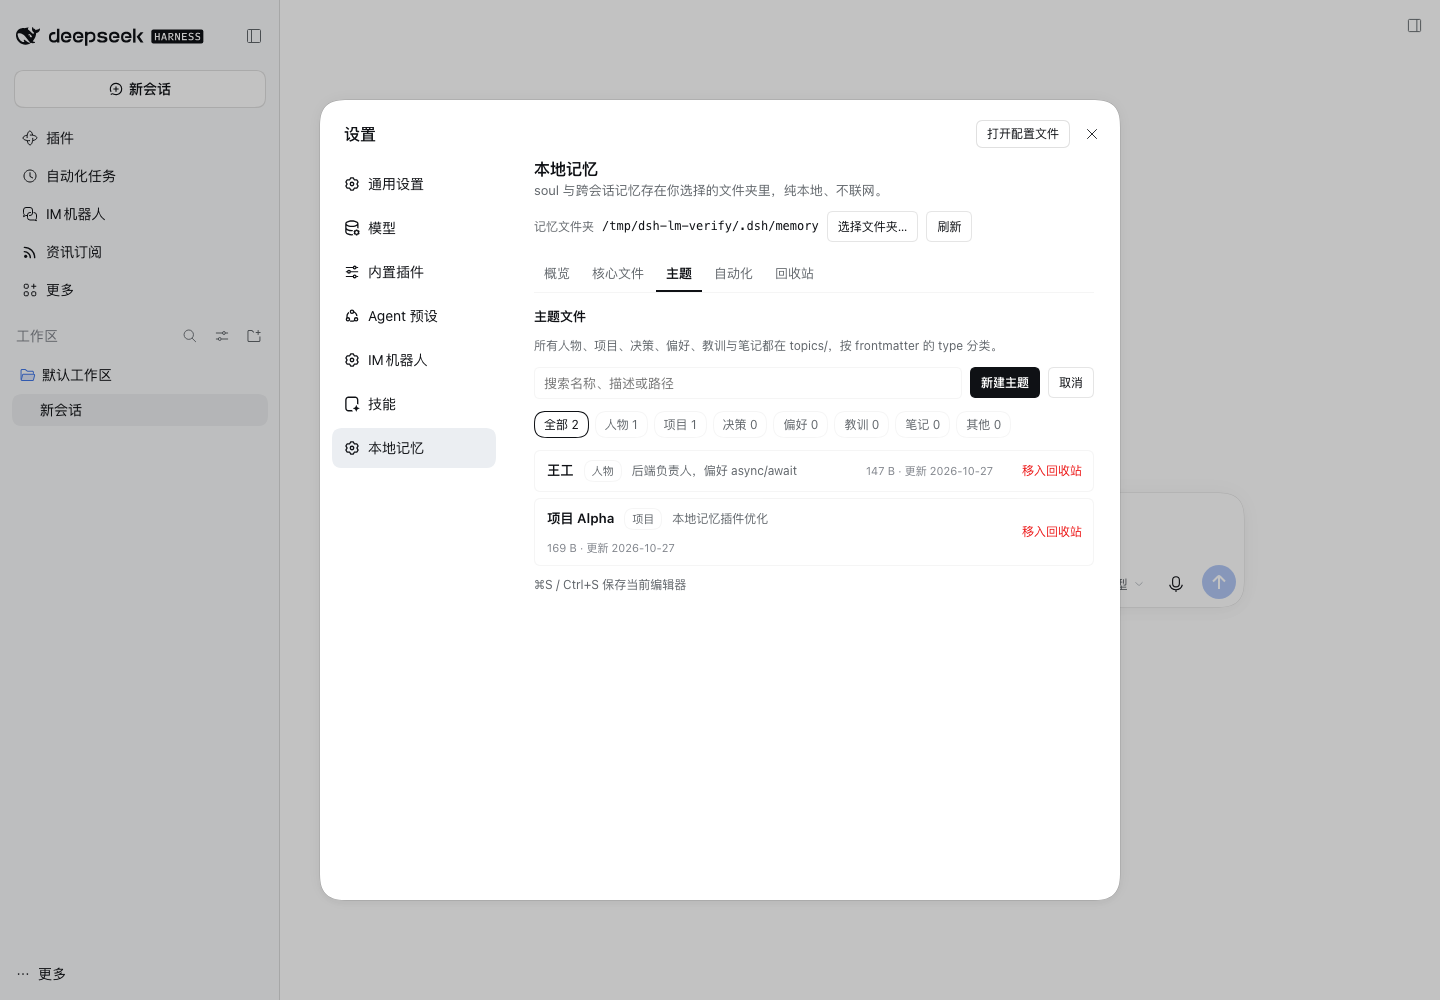
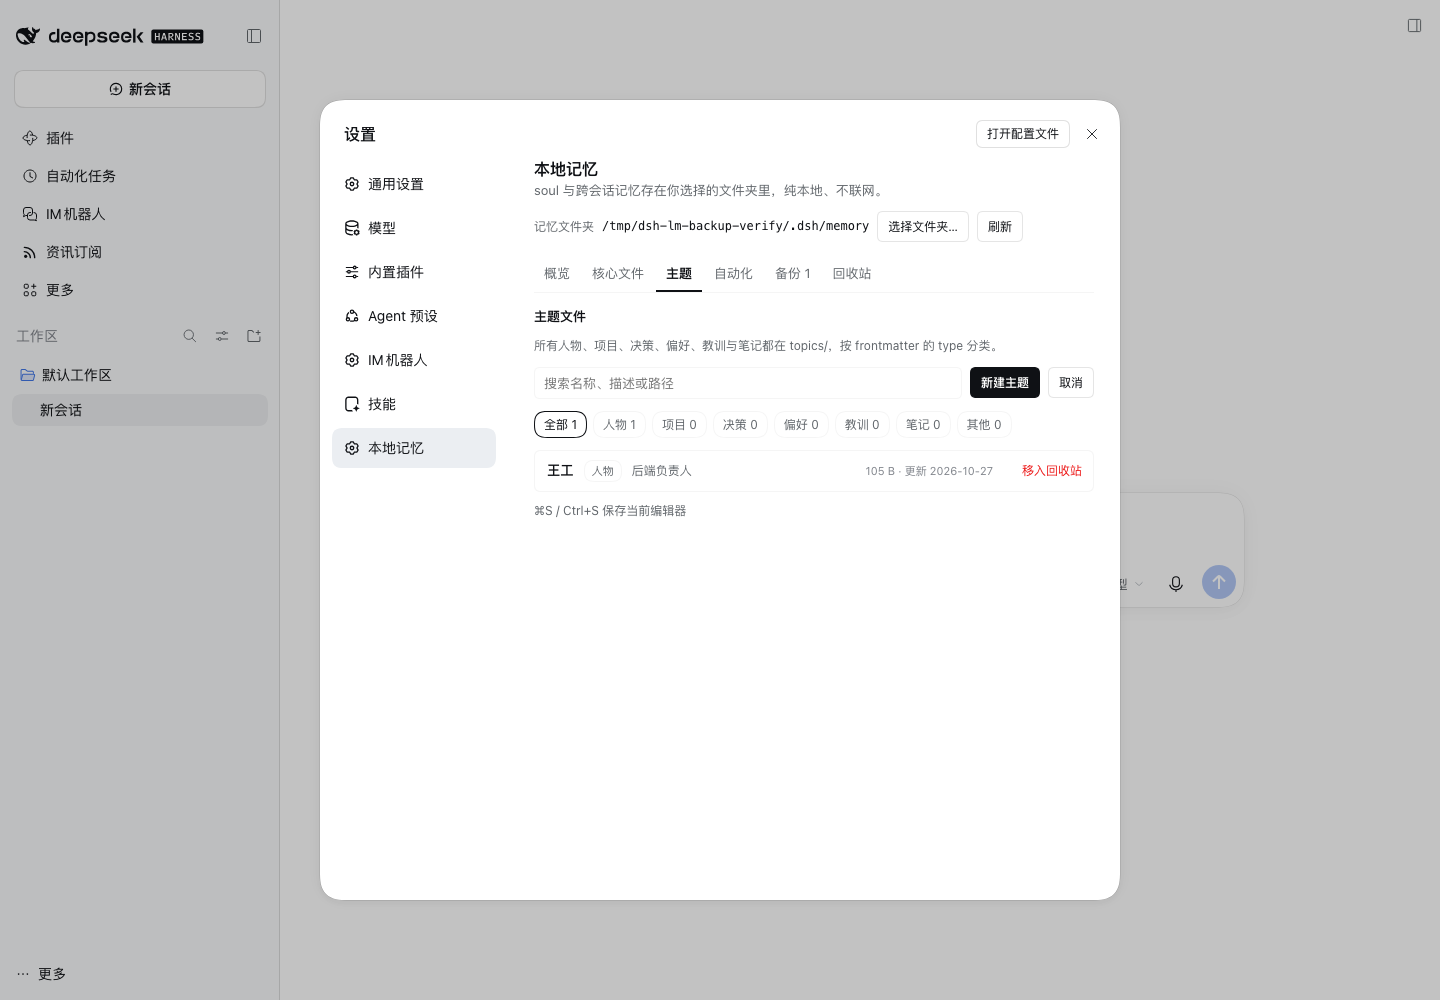
feat: 0.3.1 backup management tab with delete and retention

diff --git a/client.js b/client.js
@@ -31,6 +31,7 @@ window.__ModuleLoader__.load({
         tabCore: '核心文件',
         tabTopics: '主题',
         tabAutomation: '自动化',
+        tabBackup: '备份',
         tabTrash: '回收站',
         never: '还没有记录',
         notScheduled: '未启用',
@@ -148,6 +149,12 @@ window.__ModuleLoader__.load({
         backupEmpty: '还没有备份。',
         backupRestore: '恢复此备份',
         backupRestoreConfirm: '用备份 {id} 覆盖当前 soul / MEMORY / topics？覆盖后无法撤销。',
+        backupDelete: '删除备份',
+        confirmDeleteBackup: '确认删除',
+        backupDeleteConfirm: '永久删除备份 {id}？此操作不可恢复。',
+        backupDeleted: '备份已删除',
+        backupKeep: '保留份数',
+        backupHint: '恢复会覆盖当前 soul / MEMORY / topics；删除备份不可恢复。',
         backupDone: '备份完成',
         backupRestoreDone: '备份已恢复',
         backupFiles: '{n} 个文件',
@@ -183,6 +190,7 @@ window.__ModuleLoader__.load({
         tabCore: 'Core files',
         tabTopics: 'Topics',
         tabAutomation: 'Automation',
+        tabBackup: 'Backups',
         tabTrash: 'Trash',
         never: 'Never',
         notScheduled: 'Disabled',
@@ -300,6 +308,12 @@ window.__ModuleLoader__.load({
         backupEmpty: 'No backups yet.',
         backupRestore: 'Restore this backup',
         backupRestoreConfirm: 'Overwrite current soul / MEMORY / topics with backup {id}? This cannot be undone.',
+        backupDelete: 'Delete backup',
+        confirmDeleteBackup: 'Delete now',
+        backupDeleteConfirm: 'Delete backup {id} permanently? This cannot be undone.',
+        backupDeleted: 'Backup deleted',
+        backupKeep: 'Keep count',
+        backupHint: 'Restoring overwrites current soul / MEMORY / topics; deleting a backup is permanent.',
         backupDone: 'Backup created',
         backupRestoreDone: 'Backup restored',
         backupFiles: '{n} files',
@@ -491,6 +505,11 @@ window.__ModuleLoader__.load({
       const saveSettings = async (patch) => {
         try {
           await post('/settings', patch)
+          if (Object.prototype.hasOwnProperty.call(patch, 'dir')) {
+            setSoulText(null)
+            setMemText(null)
+            setEditor(null)
+          }
           await load()
           notify(t('settingsSaved'))
         } catch (err) {
@@ -604,8 +623,18 @@ window.__ModuleLoader__.load({
           await post('/backup', { action: 'restore', id: item.id })
           setConfirm(null)
           setEditor(null)
+          setSoulText(null)
+          setMemText(null)
           await load()
           notify(t('backupRestoreDone'))
+        })
+
+      const deleteBackupItem = (item) =>
+        run('delete-backup', async () => {
+          await post('/backup', { action: 'delete', id: item.id })
+          setConfirm(null)
+          await load()
+          notify(t('backupDeleted'))
         })
 
       const viewInbox = (file) =>
@@ -655,6 +684,7 @@ window.__ModuleLoader__.load({
       const compact = settings.compact ?? {}
       const distill = settings.distill ?? {}
       const capture = settings.capture ?? {}
+      const backupSettings = settings.backup ?? {}
       const trashDays = settings.trash?.keepDays ?? 30
       const groups = state.catalog?.groups ?? []
       const modelValue = compact.provider && compact.model ? `${compact.provider}::${compact.model}` : ''
@@ -667,6 +697,7 @@ window.__ModuleLoader__.load({
         ['core', t('tabCore')],
         ['topics', t('tabTopics')],
         ['automation', t('tabAutomation')],
+        ['backup', t('tabBackup') + (state.backups?.length ? ` ${state.backups.length}` : '')],
         ['trash', t('tabTrash') + (state.trash?.length ? ` ${state.trash.length}` : '')]
       ]
 
@@ -1073,36 +1104,53 @@ window.__ModuleLoader__.load({
                 h(
                   'div',
                   { className: 'lm-row' },
-                  h('button', { type: 'button', className: 'lm-btn lm-primary', onClick: compactNow, disabled: busy !== '' || state.running }, state.running && busy === '' ? t('running') : t('compactNow')),
-                  h('button', { type: 'button', className: 'lm-btn', onClick: backupNow, disabled: busy !== '' }, t('backupNow'))
+                  h('button', { type: 'button', className: 'lm-btn lm-primary', onClick: compactNow, disabled: busy !== '' || state.running }, state.running && busy === '' ? t('running') : t('compactNow'))
                 )
-              ),
+              )
+            )
+          : null,
 
+        tab === 'backup'
+          ? h(
+              'div',
+              { className: 'lm-stack' },
+              h('div', { className: 'lm-card-title' }, t('backupTitle')),
+              h('div', { className: 'lm-hint' }, t('backupDesc')),
+              h('div', { className: 'lm-hint' }, t('backupHint')),
               h(
                 'div',
-                { className: 'lm-card' },
-                h('div', { className: 'lm-card-title' }, t('backupTitle')),
-                h('div', { className: 'lm-hint' }, t('backupDesc')),
-                h('div', { className: 'lm-hint' }, t('backupCount', { n: state.backups?.length ?? 0 })),
-                (state.backups ?? []).length === 0
-                  ? h('div', { className: 'lm-empty' }, t('backupEmpty'))
-                  : h(
-                      'div',
-                      { className: 'lm-file-list' },
-                      state.backups.slice(0, 5).map((item) =>
-                        h(
-                          'div',
-                          { className: 'lm-file-row', key: item.id },
-                          h('span', { className: 'lm-file-name' }, item.id),
-                          h('span', { className: 'lm-muted' }, `${t('backupFiles', { n: item.files })} · ${formatBytes(item.bytes)}`),
-                          h('button', { type: 'button', className: 'lm-link', onClick: () => setConfirm({ kind: 'restore-backup', item }) }, t('backupRestore'))
-                        )
+                { className: 'lm-row' },
+                h('button', { type: 'button', className: 'lm-btn lm-primary', onClick: backupNow, disabled: busy !== '' }, t('backupNow')),
+                h(
+                  'label',
+                  { className: 'lm-field lm-field-inline' },
+                  h('span', { className: 'lm-label' }, t('backupKeep')),
+                  h(NumberField, { value: backupSettings.keep ?? 10, min: 1, max: 50, label: t('backupKeep'), disabled: busy !== '', onCommit: (value) => void saveSettings({ backup: { keep: value } }) })
+                )
+              ),
+              h('div', { className: 'lm-hint' }, t('backupCount', { n: state.backups?.length ?? 0 })),
+              (state.backups ?? []).length === 0
+                ? h('div', { className: 'lm-empty' }, t('backupEmpty'))
+                : h(
+                    'div',
+                    { className: 'lm-file-list' },
+                    state.backups.map((item) =>
+                      h(
+                        'div',
+                        { className: 'lm-file-row', key: item.id },
+                        h('span', { className: 'lm-file-name' }, item.id),
+                        h('span', { className: 'lm-muted' }, `${t('backupFiles', { n: item.files })} · ${formatBytes(item.bytes)} · ${formatTime(item.at)}`),
+                        h('button', { type: 'button', className: 'lm-link', onClick: () => setConfirm({ kind: 'restore-backup', item }), disabled: busy !== '' }, t('backupRestore')),
+                        h('button', { type: 'button', className: 'lm-link lm-danger-text', onClick: () => setConfirm({ kind: 'delete-backup', item }), disabled: busy !== '' }, t('backupDelete'))
                       )
-                    ),
-                confirm?.kind === 'restore-backup'
-                  ? h(ConfirmBar, { t, text: t('backupRestoreConfirm', { id: confirm.item.id }), confirmLabel: t('backupRestore'), danger: true, onCancel: () => setConfirm(null), onConfirm: () => restoreBackup(confirm.item), disabled: busy !== '' })
-                  : null
-              )
+                    )
+                  ),
+              confirm?.kind === 'restore-backup'
+                ? h(ConfirmBar, { t, text: t('backupRestoreConfirm', { id: confirm.item.id }), confirmLabel: t('backupRestore'), danger: true, onCancel: () => setConfirm(null), onConfirm: () => restoreBackup(confirm.item), disabled: busy !== '' })
+                : null,
+              confirm?.kind === 'delete-backup'
+                ? h(ConfirmBar, { t, text: t('backupDeleteConfirm', { id: confirm.item.id }), confirmLabel: t('confirmDeleteBackup'), onCancel: () => setConfirm(null), onConfirm: () => deleteBackupItem(confirm.item), disabled: busy !== '' })
+                : null
             )
           : null,
 

diff --git a/admin.js b/admin.js
@@ -34,6 +34,7 @@ import { createJobs } from './jobs.js'
 import { createModel } from './model.js'
 import {
   createBackup,
+  deleteBackup,
   emptyTrash,
   ensureLayout,
   listBackups,
@@ -157,7 +158,7 @@ export function createAdmin(ctx, config) {
     await ensureLayout(root)
     await migrateLegacyDirs(root)
     await pruneTrash(root, settings.trash.keepDays).catch(() => {})
-    await pruneBackups(root).catch(() => {})
+    await pruneBackups(root, settings.backup.keep).catch(() => {})
   })()
 
   const save = async () => {
@@ -588,7 +589,8 @@ export function createAdmin(ctx, config) {
         if (req.method !== 'POST') return sendJson(res, 405, { error: 'method not allowed' })
         const body = await readJson(req)
         const action = str(body.action, 'create')
-        if (action === 'create') return sendJson(res, 200, { ok: true, backup: await createBackup(paths().root, paths()) })
+        if (action === 'create') return sendJson(res, 200, { ok: true, backup: await createBackup(paths().root, paths(), settings.backup.keep) })
+        if (action === 'delete') return sendJson(res, 200, { ok: true, ...(await deleteBackup(paths().root, str(body.id))) })
         if (action === 'restore') return sendJson(res, 200, { ok: true, ...(await restoreBackup(paths().root, str(body.id))) })
         return sendJson(res, 400, { error: `unknown action: ${action}` })
       } catch (error) {
@@ -601,13 +603,15 @@ export function createAdmin(ctx, config) {
       if (req.method !== 'POST') return sendJson(res, 405, { error: 'method not allowed' })
       try {
         const body = await readJson(req)
+        const priorKeep = settings.backup.keep
         const next = sanitizeSettings({
           ...settings,
           ...body,
           compact: { ...settings.compact, ...(body.compact ?? {}) },
           distill: { ...settings.distill, ...(body.distill ?? {}) },
           capture: { ...settings.capture, ...(body.capture ?? {}) },
-          trash: { ...settings.trash, ...(body.trash ?? {}) }
+          trash: { ...settings.trash, ...(body.trash ?? {}) },
+          backup: { ...settings.backup, ...(body.backup ?? {}) }
         })
         settings = next
         const nextRoot = rootOf(settings.dir || config.dir)
@@ -616,6 +620,7 @@ export function createAdmin(ctx, config) {
           await ensureLayout(root)
           await migrateLegacyDirs(root)
         }
+        if (settings.backup.keep !== priorKeep) await pruneBackups(root, settings.backup.keep).catch(() => {})
         await save()
         return sendJson(res, 200, { ok: true, settings, root })
       } catch (error) {

diff --git a/storage.js b/storage.js
@@ -50,7 +50,7 @@ async function uniqueDir(root, name) {
  * @param {{soulPath: string, memoryPath: string}} paths
  * @returns {Promise<{id: string, at: number, files: number, bytes: number}>}
  */
-export async function createBackup(root, paths) {
+export async function createBackup(root, paths, keep = BACKUP_KEEP) {
   const id = stamp()
   const dir = await uniqueDir(root, id)
   const files = [paths.soulPath, paths.memoryPath, ...(await collectDocs(join(root, TOPIC_DIR), 500))]
@@ -68,7 +68,7 @@ export async function createBackup(root, paths) {
   }
   await mkdir(dir, { recursive: true })
   await writeFile(join(dir, 'meta.json'), JSON.stringify({ at: Date.now(), files: count, bytes }, null, 2), 'utf8').catch(() => {})
-  await pruneBackups(root)
+  await pruneBackups(root, keep)
   return { id: relativeOf(join(root, BACKUP_DIR), dir), at: Date.now(), files: count, bytes }
 }
 
@@ -94,7 +94,18 @@ export async function listBackups(root) {
     for (const file of files) bytes += (await stat(file).catch(() => ({ size: 0 }))).size
     out.push({ id: entry.name, at: (await stat(dir).catch(() => ({ mtimeMs: 0 }))).mtimeMs, files: files.length, bytes })
   }
-  return out.sort((a, b) => (a.id < b.id ? 1 : a.id > b.id ? -1 : 0))
+  // 新的在前：按目录 mtime，避免同一秒内 -10 与 -9 的字符串排序错位
+  return out.sort((a, b) => b.at - a.at || (a.id < b.id ? 1 : a.id > b.id ? -1 : 0))
+}
+
+/** 删除一份备份。 */
+export async function deleteBackup(root, id) {
+  if (!/^[0-9][0-9A-Za-z-]*$/.test(String(id))) throw new Error('invalid backup id')
+  const dir = join(root, BACKUP_DIR, String(id))
+  const st = await stat(dir).catch(() => undefined)
+  if (st === undefined || !st.isDirectory()) throw new Error(`backup not found: ${id}`)
+  await rm(dir, { recursive: true, force: true })
+  return { ok: true, id: String(id) }
 }
 
 /** 只保留最近 keep 份备份。 */

diff --git a/jobs.js b/jobs.js
@@ -358,7 +358,7 @@ export function createJobs({ config, getSettings, paths, model }) {
     let backup = null
     const ensureBackup = async () => {
       if (backup !== null || settings.compact.backupBeforeRun === false) return
-      backup = await createBackup(root, paths())
+      backup = await createBackup(root, paths(), settings.backup?.keep ?? 10)
       result.backup = backup
     }
 
@@ -462,7 +462,7 @@ export function createJobs({ config, getSettings, paths, model }) {
     // 3) 清理过期归档/回收站/备份，汇总体积。
     if (typeof settings.trash?.keepDays === 'number') await pruneTrash(root, settings.trash.keepDays)
     await pruneArchive(join(root, INBOX_DIR))
-    await pruneBackups(root)
+    await pruneBackups(root, settings.backup?.keep ?? 10)
     for (const entry of files) {
       const st = await stat(entry.file).catch(() => undefined)
       if (st !== undefined) result.bytesAfter += st.size

diff --git a/core.js b/core.js
@@ -102,6 +102,9 @@ export const DEFAULT_SETTINGS = Object.freeze({
   },
   trash: {
     keepDays: 30
+  },
+  backup: {
+    keep: 10
   }
 })
 
@@ -125,6 +128,7 @@ export function sanitizeSettings(raw) {
   const distill = input.distill ?? {}
   const capture = input.capture ?? {}
   const trash = input.trash ?? {}
+  const backup = input.backup ?? {}
   const legacyDistill = compact.lastDistill ?? null
   const legacyIdle = capture.idleMinutes
   return {
@@ -156,6 +160,9 @@ export function sanitizeSettings(raw) {
     },
     trash: {
       keepDays: clamp(trash.keepDays, 1, 365, DEFAULT_SETTINGS.trash.keepDays)
+    },
+    backup: {
+      keep: clamp(backup.keep, 1, 50, DEFAULT_SETTINGS.backup.keep)
     }
   }
 }

diff --git a/README.md b/README.md
@@ -20,7 +20,7 @@ DeepSeek Harness 的纯本地长期记忆插件：一个普通文件夹，四层
 ### 整理
 
 - 定时合并去重：完全相同文件进回收站、大文件交给模型压缩
-- 压缩前自动备份（可关），备份保留最近 10 份
+- 压缩前自动备份（可关），备份保留份数可配置（默认 10）
 - 提炼失败不归档原文，下次重试
 - 归档同名加时间戳，绝不覆盖
 
@@ -29,18 +29,21 @@ DeepSeek Harness 的纯本地长期记忆插件：一个普通文件夹，四层
 - 概览：主题数、待提炼积压、预算进度、上次运行、下次整理、warning
 - 核心文件：直接编辑 `soul.md` / `MEMORY.md`，实时字节预算，⌘S 保存
 - 主题：搜索、按类型过滤、新建、编辑、移入回收站
-- 自动化：对话记录、提炼、压缩、模型、备份等全部参数
+- 自动化：对话记录、提炼、压缩、模型等全部参数
+- 备份：创建、恢复、删除、保留份数
 - 回收站：恢复（绝不覆盖同名）、彻底删除、清空
 
 ## 界面
 
-设置页五个页签：概览、核心文件（soul / MEMORY 编辑器）、主题（搜索/新建/编辑/回收）、自动化、回收站。
+设置页六个页签：概览、核心文件（soul / MEMORY 编辑器）、主题（搜索/新建/编辑/回收）、自动化、备份、回收站。
 
 ![概览](docs/overview.png)
 
 ![主题](docs/topics.png)
 
 ![自动化](docs/automation.png)
+
+![备份](docs/backup.png)
 
 ## 文件夹结构
 
@@ -117,7 +120,7 @@ updated: 2026-10-27
 | POST | `/api/local-memory/topic` | 新建主题 |
 | POST | `/api/local-memory/delete` | 主题移入回收站 |
 | GET/POST | `/api/local-memory/trash` | 列出 / restore / purge / empty |
-| GET/POST | `/api/local-memory/backup` | 列出 / create / restore |
+| GET/POST | `/api/local-memory/backup` | 列出 / create / restore / delete |
 | POST | `/api/local-memory/settings` | 合并保存设置 |
 | POST | `/api/local-memory/distill` | 立即提炼 |
 | GET/POST | `/api/local-memory/compact` | 立即整理 / 查询状态 |

diff --git a/ARCHITECTURE.md b/ARCHITECTURE.md
@@ -11,7 +11,7 @@
 ├── inbox/
 │   ├── YYYY-MM-DD.md           # 每轮对话原文（不注入、不检索、不压缩）
 │   └── archive/                # 已提炼原文（30 天自动清理）
-├── backups/<timestamp>/        # soul + MEMORY + topics 快照（保留最近 10 份）
+├── backups/<timestamp>/        # soul + MEMORY + topics 快照（默认保留 10 份）
 └── .trash/<timestamp>/<原路径>  # 删除的主题文件（默认保留 30 天，可恢复）
 ```
 
@@ -60,7 +60,7 @@ updated: 2026-10-27
 3. **`memory` 工具**：`search` / `read` / `write` / `list` / `delete`
    - `write` 只允许 `soul.md`、`MEMORY.md`、`topics/*.md`；旧路径 `people/x.md` 归一化到 `topics/x.md` 并写 type
    - `delete` 只允许 `topics/*.md`，移入回收站
-4. **设置页**：soul/MEMORY 编辑器、主题增删改、回收站、备份、全部参数
+4. **设置页**：soul/MEMORY 编辑器、主题增删改、自动化、备份管理、回收站、全部参数
 
 ## 模块
 

diff --git a/CHANGELOG.md b/CHANGELOG.md
@@ -1,5 +1,20 @@
 # Changelog
 
+## 0.3.1 — 2026-10-27
+
+### 新增
+
+- 独立「备份」设置页：创建、恢复、删除、保留份数设置
+- 备份保留份数可配置（默认 10，范围 1–50），修改后立即裁掉超额备份
+- `POST /api/local-memory/backup` 新增 `delete` action
+
+### 调整
+
+- 备份不再放在「自动化」页底部，避免被折叠/滚动隐藏
+- 删除备份需二次确认，恢复仍会覆盖当前 soul / MEMORY / topics
+- 备份列表按目录 mtime 排序，同一秒内创建的多个备份也能正确保留最新份
+- 恢复备份或切换记忆目录后，核心文件编辑器会重新加载，避免把旧内容写回
+
 ## 0.3.0 — 2026-10-27
 
 ### 新增
